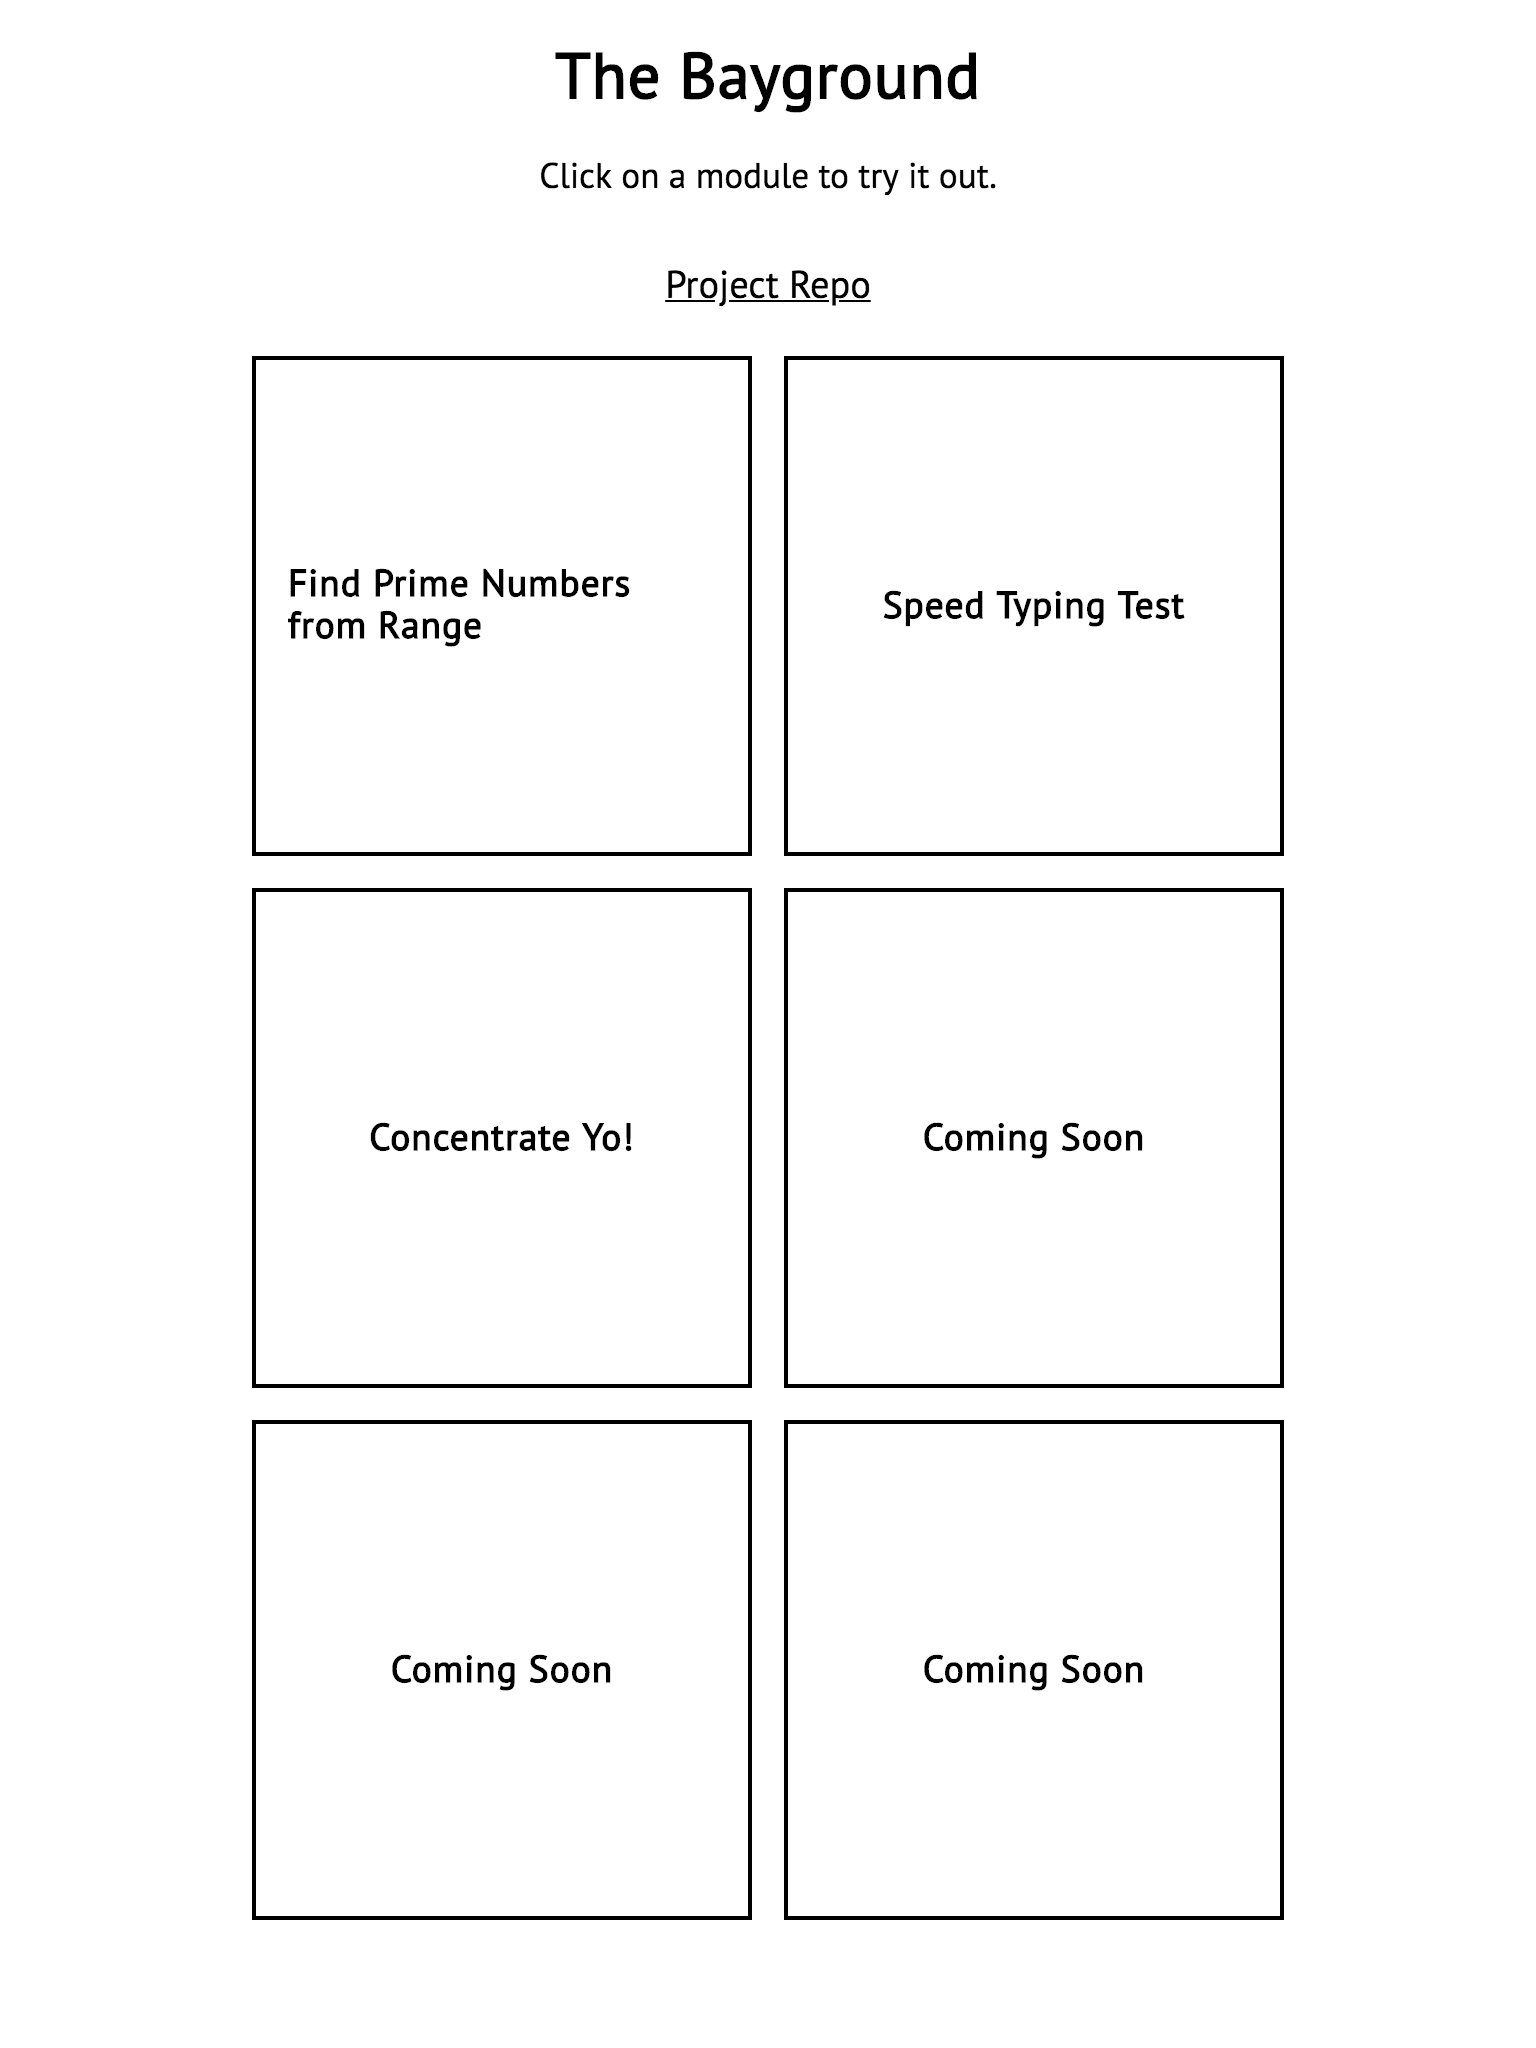
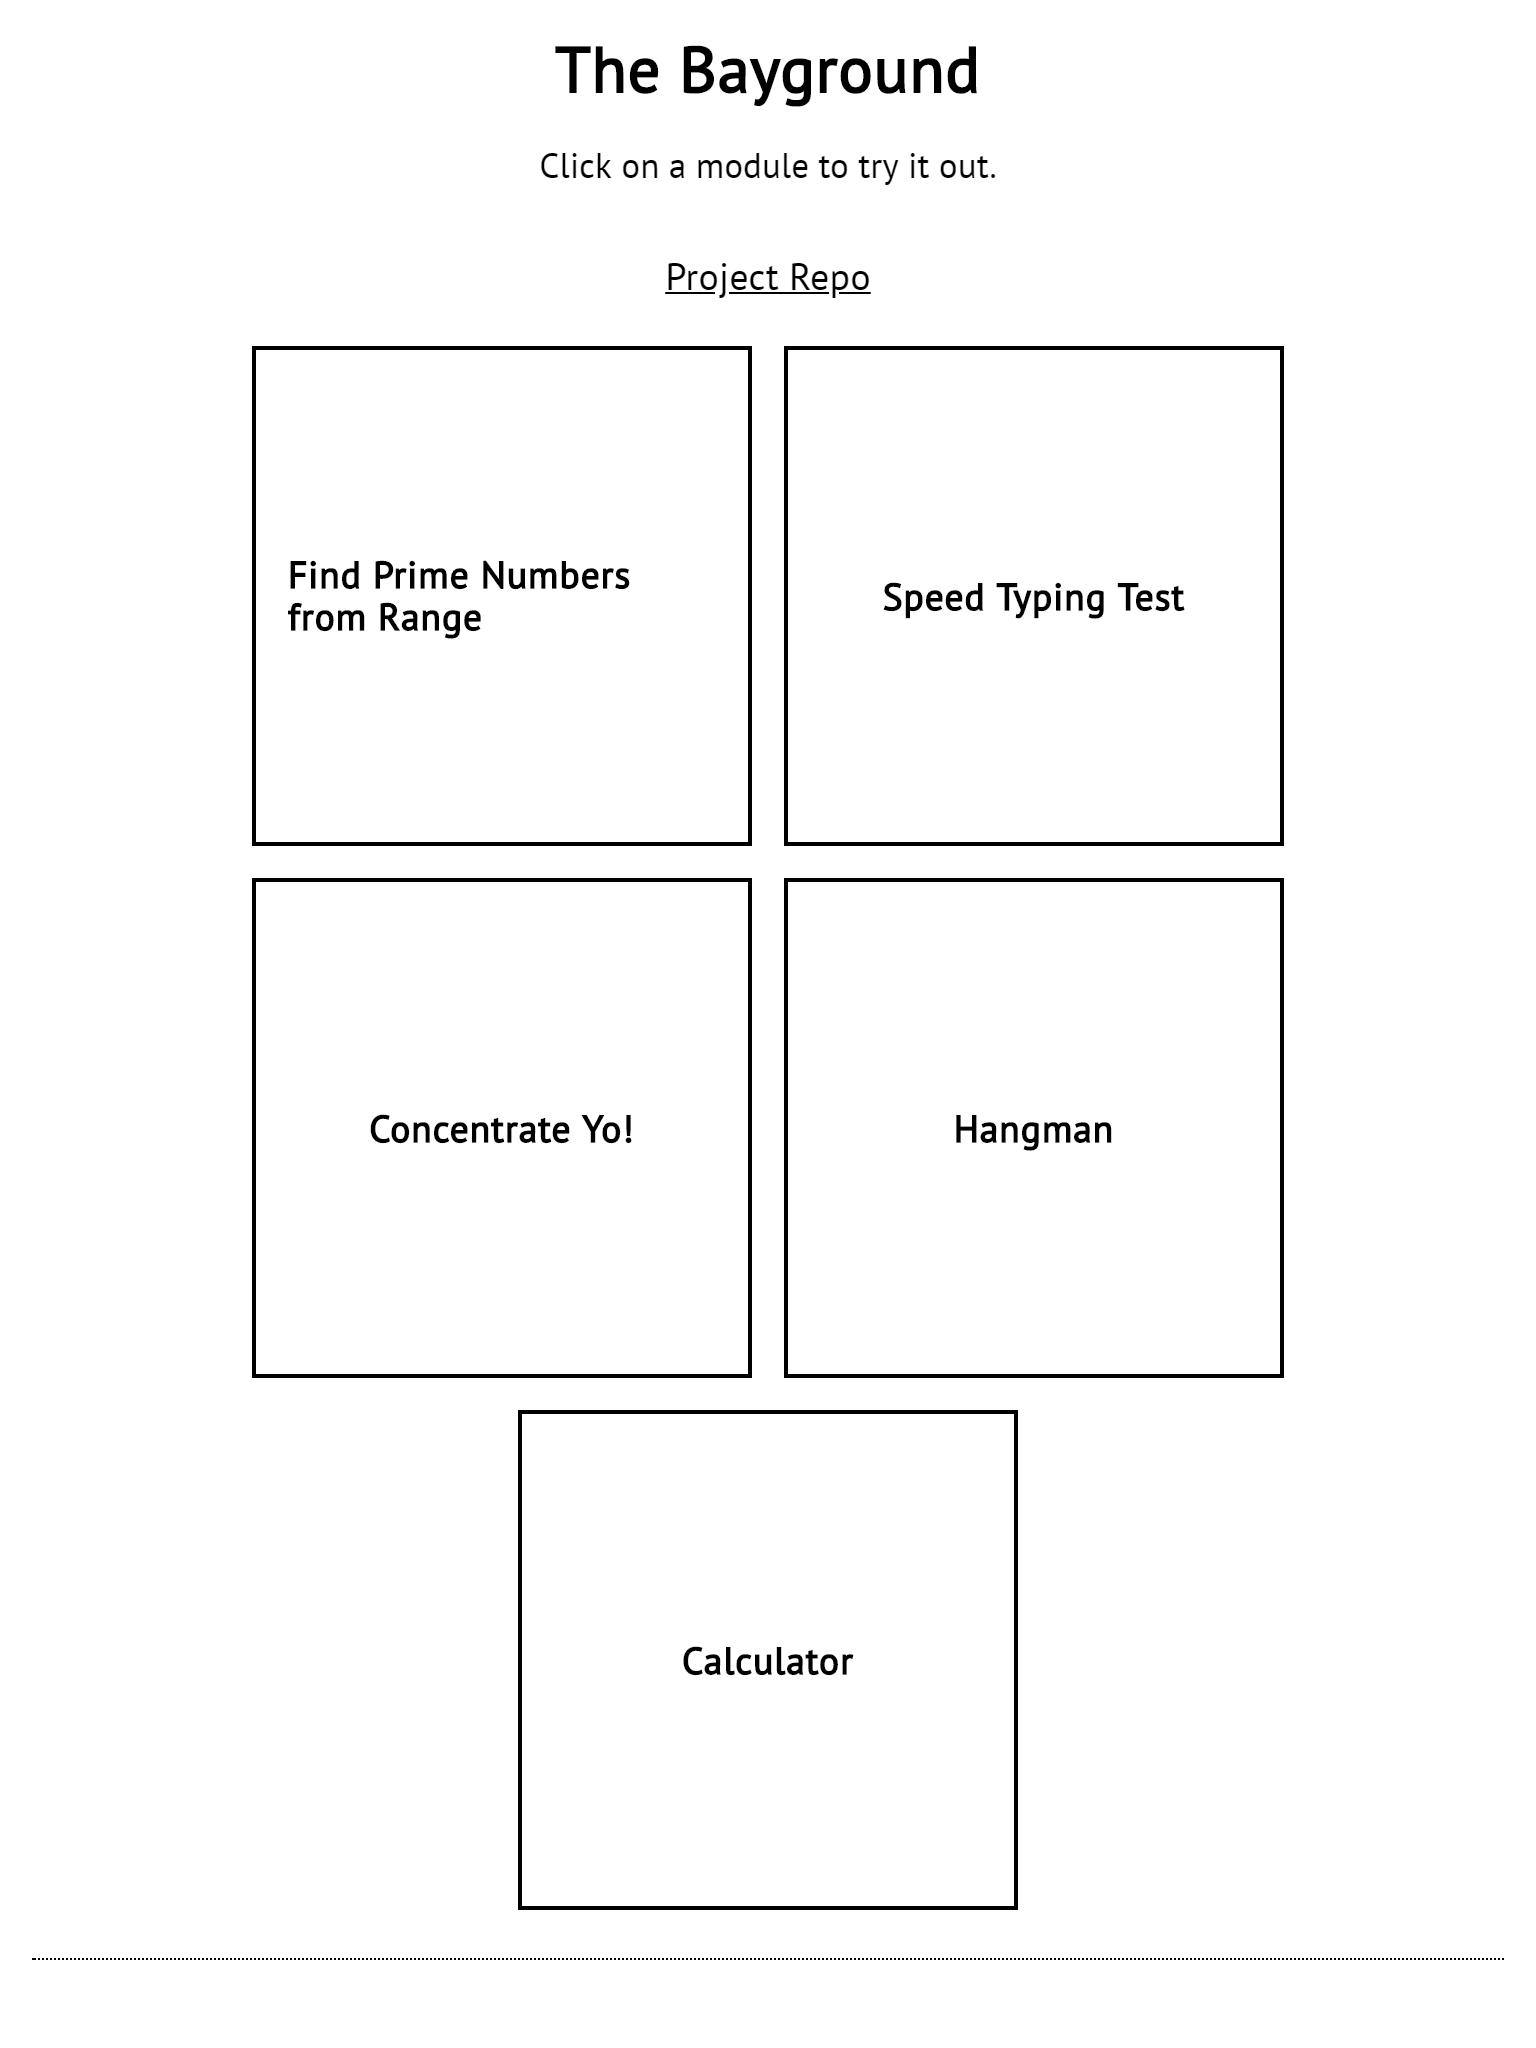
added new Bayground screenshots

diff --git a/src/app/data/portfolio.model.ts b/src/app/data/portfolio.model.ts
@@ -63,6 +63,29 @@ export const portfolio_list = [
         ]
     },
     {
+        name: 'The Bayground',
+        route_url: 'bayground',
+        abs_url: 'https://zbayoff.github.io/bayground/',
+        short_desc: 'Mini javascript games and apps.',
+        completed_date: 'January 2018',
+        description: 'The Bayground is a collection of small, simple to complex applications. They range from finding a set of prime numbers to playing a game of concentration. This project was created to enhance javascript and programming skills. Namely, creating and using functions in different ways, writing loops, manipulating the DOM (without jQuery), adhering to ECMAScript 6 specifications, and much more.',
+        technologies: ['Vanilla Javascript, SASS, Webpack 4, Babel, svg.js'],
+        desc_img: '../assets/images/portfolio/bayground/project-desc-bayground.png',
+        home_screenshots:
+        {
+            laptop: '../assets/images/portfolio/bayground/home-screenshot-laptop.png',
+            ipad: '../assets/images/portfolio/bayground/home-screenshot-ipad.png',
+            iphone: '../assets/images/portfolio/bayground/home-screenshot-iphone.png'
+        },
+        other_screenshots: [
+            '../assets/images/portfolio/bayground/concentration-module.png',
+            '../assets/images/portfolio/bayground/speedtyping-module.png',
+            '../assets/images/portfolio/bayground/hangman-module.png',
+            '../assets/images/portfolio/bayground/calculator-module.png',
+            '../assets/images/portfolio/bayground/prime-numbers-module.png'
+        ]
+    },
+    {
         name: 'Weather App',
         route_url: 'weatherapp',
         abs_url: 'https://zb-weather-app.herokuapp.com',
@@ -97,27 +120,6 @@ export const portfolio_list = [
             iphone: '../assets/images/portfolio/portfolio-site/home-screenshot-iphone.png'
         },
         other_screenshots: []
-    },
-    {
-        name: 'The Bayground',
-        route_url: 'bayground',
-        abs_url: 'https://zbayoff.github.io/bayground/',
-        short_desc: 'Mini javascript games and apps.',
-        completed_date: 'January 2018',
-        description: 'The Bayground is a collection of small, simple to complex applications. They range from finding a set of prime numbers to playing a game of concentration. This project was created to enhance javascript and programming skills. Namely, creating and using functions in different ways, writing loops, manipulating the DOM (without jQuery), adhering to ECMAScript 6 specifications, and much more.',
-        technologies: ['Vanilla Javascript, SASS'],
-        desc_img: '../assets/images/portfolio/bayground/project-desc-bayground.png',
-        home_screenshots:
-        {
-            laptop: '../assets/images/portfolio/bayground/home-screenshot-laptop.png',
-            ipad: '../assets/images/portfolio/bayground/home-screenshot-ipad.png',
-            iphone: '../assets/images/portfolio/bayground/home-screenshot-iphone.png'
-        },
-        other_screenshots: [
-            '../assets/images/portfolio/bayground/concentration-module.png',
-            '../assets/images/portfolio/bayground/speedtyping-module.png',
-            '../assets/images/portfolio/bayground/prime-numbers-module.png'
-        ]
     },
     {
         name: 'New York Junior Tennis League',

diff --git a/src/app/components/about/about.component.html b/src/app/components/about/about.component.html
@@ -50,7 +50,7 @@
             <ul class="skills-list">
               <li class="skills-list__item">Angular 6</li>
               <li class="skills-list__item">jQuery</li>
-              <li class="skills-list__item">Bootstrap4</li>
+              <li class="skills-list__item">Bootstrap 4</li>
               <li class="skills-list__item">ExpressJS</li>
             </ul>
           </div>
